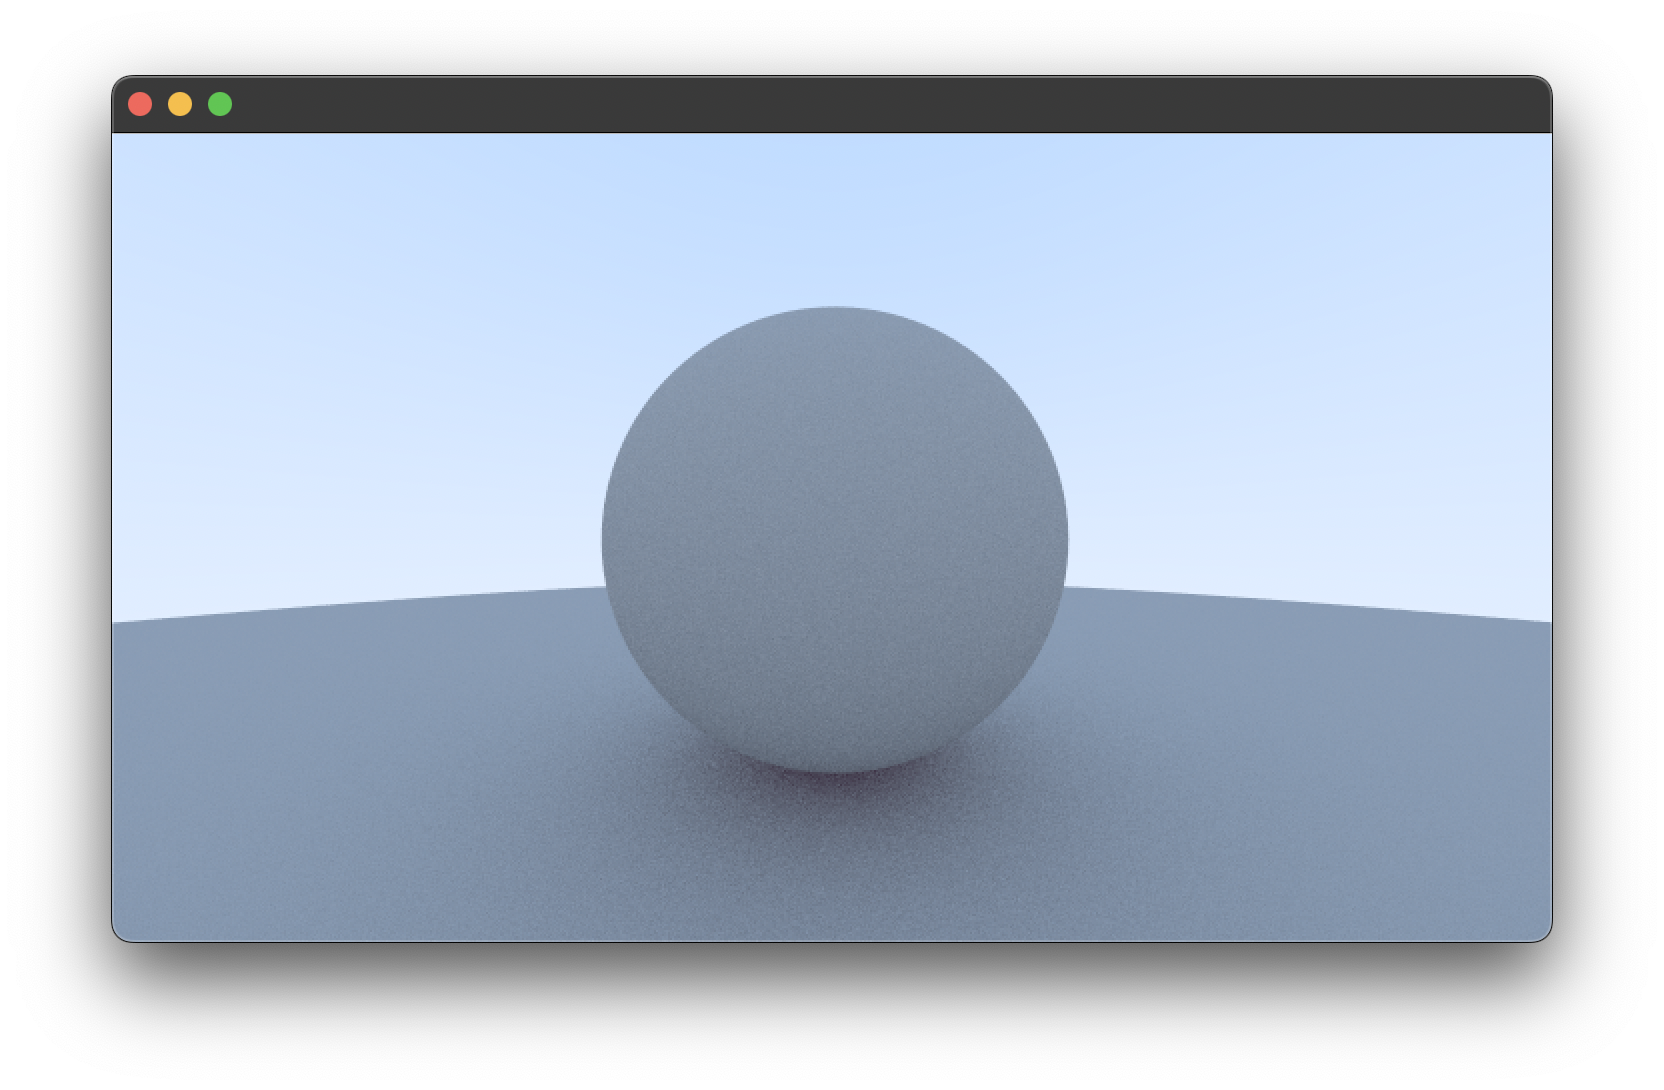
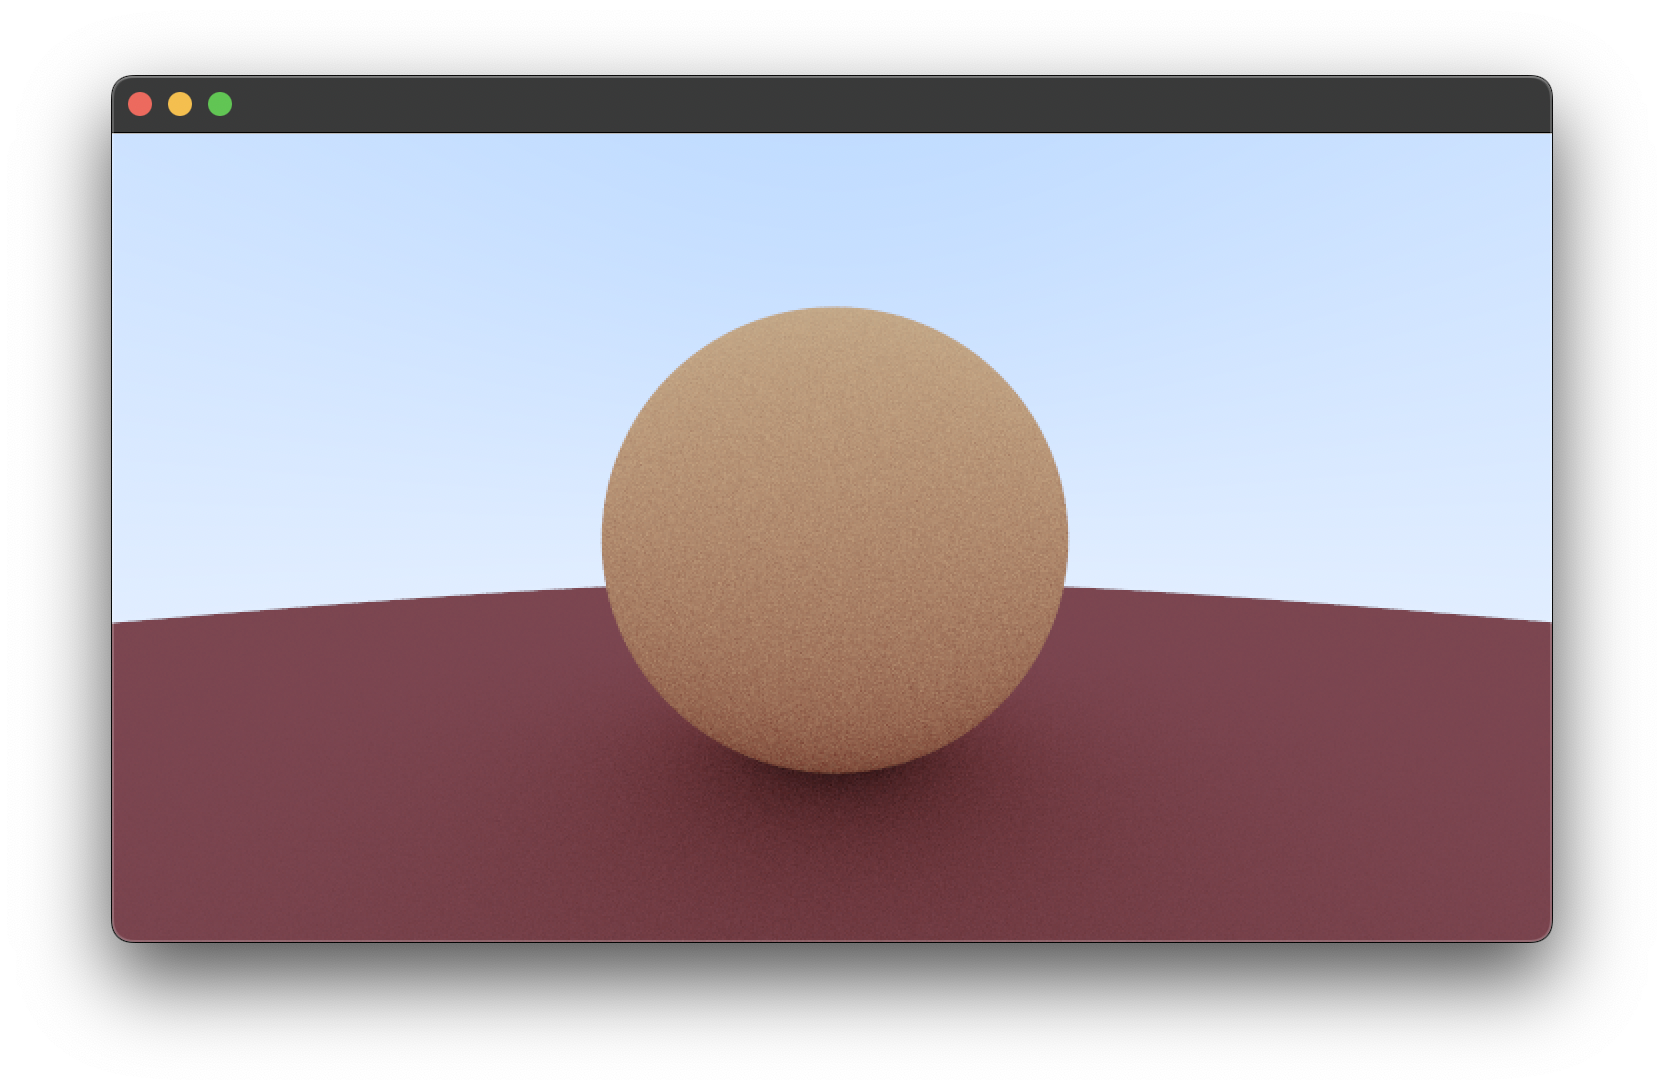
added new image

diff --git a/src/main.rs b/src/main.rs
@@ -47,11 +47,11 @@ fn render(
     let camera = Camera::new(aspect_ratio, 2.0, 1.0);
 
     let mut world = World::new();
-    let mat_ground = Rc::new(Lambertian::new(Color::new(0.8, 0.1, 0.1)));
+    let mat_ground = Rc::new(Lambertian::new(Color::new(0.4, 0.1, 0.1)));
     let sphere_ground = Sphere::new(Point3::new(0.0, -100.5, -0.0), 100.0, mat_ground);
     world.push(Box::new(sphere_ground));
 
-    let mat_center = Rc::new(Lambertian::new(Color::new(0.8, 0.8, 0.1)));
+    let mat_center = Rc::new(Lambertian::new(Color::new(1.0, 0.6, 0.3)));
     let sphere_center = Sphere::new(Point3::new(0.0, 0.0, -1.0), 0.5, mat_center);
     world.push(Box::new(sphere_center));
 
